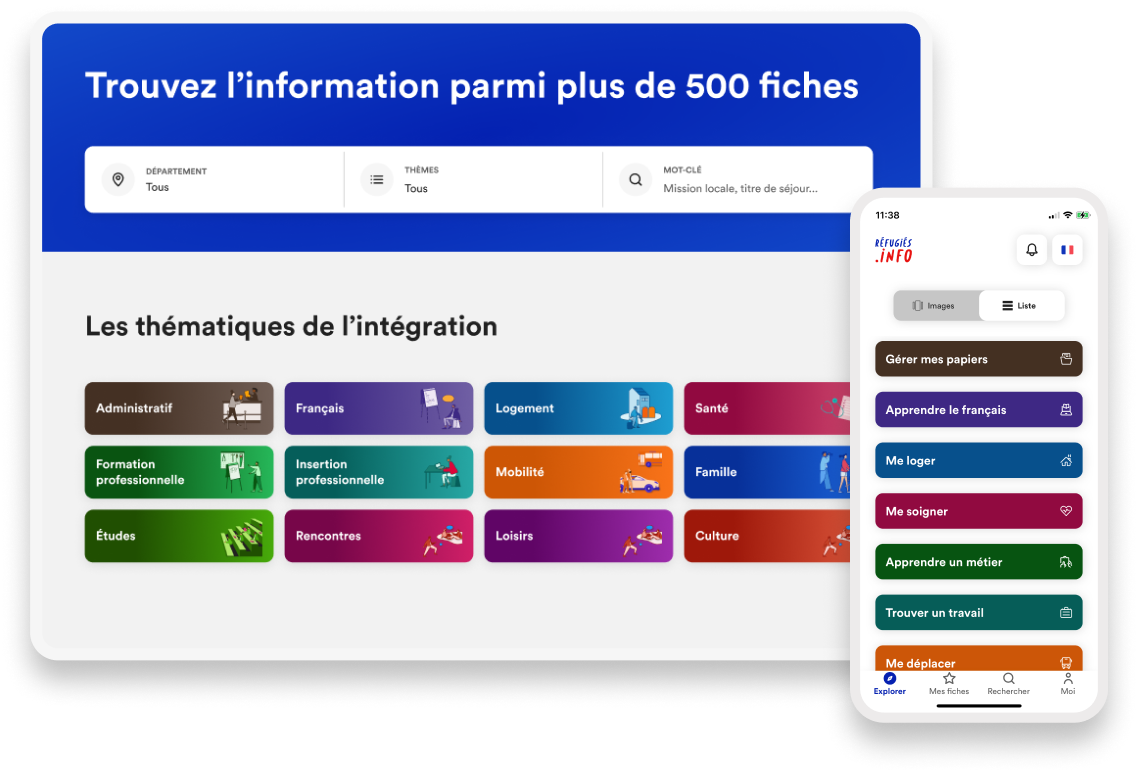
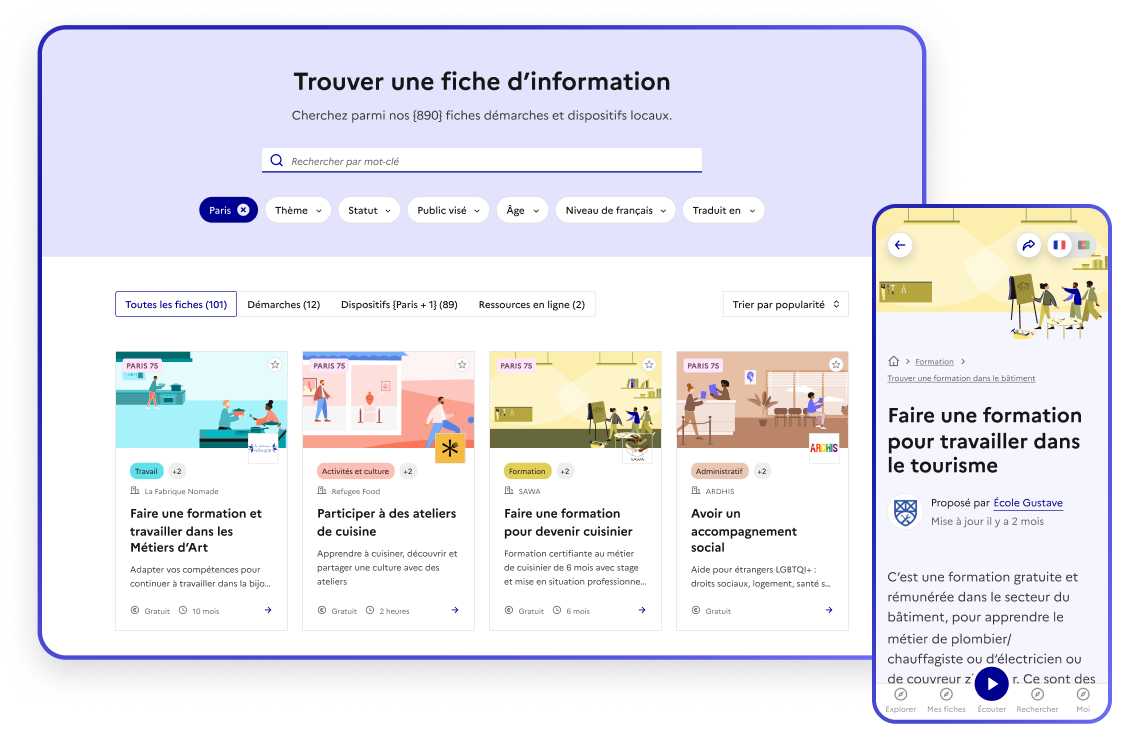
style(client): :lipstick: update section 1

diff --git a/apps/client/src/pages/publier.tsx b/apps/client/src/pages/publier.tsx
@@ -1,3 +1,4 @@
+import Button from "@codegouvfr/react-dsfr/Button";
 import { RoleName } from "@refugies-info/api-types";
 import { useTranslation } from "next-i18next";
 import { serverSideTranslations } from "next-i18next/serverSideTranslations";
@@ -7,7 +8,6 @@ import { Col, Container, Row } from "reactstrap";
 import HelpIcon3 from "~/assets/staticPages/publier/help-icon-crisp.svg";
 import HelpIcon2 from "~/assets/staticPages/publier/help-icon-tutoriel.svg";
 import HelpIcon1 from "~/assets/staticPages/publier/help-icon-visio.svg";
-import MockupsRIMobile from "~/assets/staticPages/publier/mockups-ri-mobile.png";
 import MockupsRI from "~/assets/staticPages/publier/mockups-ri.png";
 import RequiredIcon1 from "~/assets/staticPages/publier/required-icon-1.png";
 import RequiredIcon2 from "~/assets/staticPages/publier/required-icon-2.png";
@@ -25,7 +25,6 @@ import {
   Accordion,
   Card,
   CountUpFigure,
-  HeroArrow,
   InlineLink,
   Register,
   SecondaryNavbar,
@@ -91,26 +90,28 @@ const RecensezVotreAction = (props: Props) => {
       <SEO title={t("Publish.title")} />
 
       {/* HERO */}
-      <div ref={refHero} className={cls(styles.section, styles.bg_blue, "mb-4")}>
-        <Container className={styles.container}>
-          <Row className={styles.hero}>
-            <Col sm="12" lg="6" className={styles.hero_title}>
-              <h1 className={styles.white}>{t("Publish.title")}</h1>
-              <p className={styles.subtitle}>{t("Publish.subtitle")}</p>
-              <HeroArrow target="why" />
-            </Col>
-            {!isTablet && (
-              <Col sm="12" lg="6">
-                <Image src={MockupsRI} alt="" style={{ maxWidth: "100%", height: "auto" }} />
-              </Col>
-            )}
-          </Row>
-        </Container>
-        {isTablet && (
-          <div className={styles.hero_image}>
-            <Image src={MockupsRIMobile} alt="" style={{ maxWidth: "100%", height: "auto" }} />
+      <div ref={refHero} className={cls("py-10 md:py-20 mb-4 bg-blue-france")}>
+        <div className="fr-container">
+          <div className="flex flex-col md:flex-row md:items-center gap-10 lg:gap-20">
+            <div className="flex-1 text-center md:text-left">
+              <h1 className={cls(styles.title, "!text-white mb-6")}>{t("Publish.title")}</h1>
+              <p className={cls(styles.title_sub, "text-white !mb-0")}>{t("Publish.subtitle")}</p>
+              <Button
+                iconId="fr-icon-arrow-right-line"
+                iconPosition="right"
+                className="fr-button-reverse mt-10 !w-full justify-center md:!w-auto"
+                linkProps={{
+                  href: "#register",
+                }}
+              >
+                {t("Publish.navbarItem5")}
+              </Button>
+            </div>
+            <div className="flex-1">
+              <Image src={MockupsRI} alt="" style={{ maxWidth: "100%", height: "auto" }} />
+            </div>
           </div>
-        )}
+        </div>
       </div>
 
       <SecondaryNavbar

diff --git a/apps/client/src/scss/pages/agir.module.scss b/apps/client/src/scss/pages/agir.module.scss
@@ -128,40 +128,6 @@
   }
 }
 
-.colored {
-  /* stylelint-disable-next-line selector-class-pattern */
-  &:global(.fr-btn--secondary) {
-    color: var(--text-inverted-blue-france);
-    box-shadow: inset 0 0 0 1px var(--border-open-blue-france) !important;
-
-    &:hover {
-      background-color: rgb(255 255 255 / 20%) !important;
-    }
-
-    &:active {
-      background-color: rgb(255 255 255 / 40%) !important;
-    }
-  }
-
-  /* stylelint-disable-next-line selector-class-pattern, no-descending-specificity */
-  &:global(:not(.fr-btn--secondary)) {
-    background-color: var(--background-contrast-blue-france);
-    color: var(--text-action-high-blue-france);
-
-    &:hover {
-      background-color: var(--background-contrast-blue-france-hover) !important;
-    }
-
-    &:focus {
-      background-color: var(--background-contrast-blue-france) !important;
-    }
-
-    &:active {
-      background-color: var(--background-contrast-blue-france-active) !important;
-    }
-  }
-}
-
 .cards {
   /* stylelint-disable-next-line selector-class-pattern */
   :global(.fr-card__title a[href]) {
@@ -199,7 +165,7 @@
       height: u(10);
     }
   }
-  
+
   .content {
     padding: u(6);
   }

diff --git a/apps/client/src/scss/_dsfr-fix.scss b/apps/client/src/scss/_dsfr-fix.scss
@@ -18,7 +18,7 @@
     width: 2.5rem;
     height: 2.5rem;
     min-height: 2.5rem;
-    
+
     &::before {
       margin: 0;
     }
@@ -57,4 +57,37 @@
 [class^="ri-"],
 [class*=" ri-"] {
   font-family: inherit !important;
+}
+
+// white button
+.fr-button-reverse {
+  &:global(.fr-btn--secondary) {
+    color: var(--text-inverted-blue-france);
+    box-shadow: inset 0 0 0 1px var(--border-open-blue-france) !important;
+
+    &:hover {
+      background-color: rgb(255 255 255 / 20%) !important;
+    }
+
+    &:active {
+      background-color: rgb(255 255 255 / 40%) !important;
+    }
+  }
+
+  &:global(:not(.fr-btn--secondary)) {
+    background-color: var(--background-contrast-blue-france);
+    color: var(--text-action-high-blue-france);
+
+    &:hover {
+      background-color: var(--background-contrast-blue-france-hover) !important;
+    }
+
+    &:focus {
+      background-color: var(--background-contrast-blue-france) !important;
+    }
+
+    &:active {
+      background-color: var(--background-contrast-blue-france-active) !important;
+    }
+  }
 }

diff --git a/apps/client/src/pages/agir.tsx b/apps/client/src/pages/agir.tsx
@@ -75,7 +75,7 @@ const Agir = () => {
               <Button
                 iconId="fr-icon-arrow-right-line"
                 iconPosition="right"
-                className={cls(styles.colored, "mb-4")}
+                className="fr-button-reverse mb-4"
                 size="large"
                 linkProps={{
                   href: "#program",
@@ -88,7 +88,7 @@ const Agir = () => {
                 iconPosition="right"
                 size="large"
                 priority="secondary"
-                className={styles.colored}
+                className="fr-button-reverse"
                 linkProps={{
                   href: "#map",
                 }}

diff --git a/apps/client/src/scss/components/staticPages.module.scss b/apps/client/src/scss/components/staticPages.module.scss
@@ -97,6 +97,18 @@ $breakpoint: "lg-limit";
 }
 
 // Titles
+.title {
+  @include dsfr_text("alt-title");
+
+  @include isMobile {
+    @include dsfr_text("h1");
+  }
+}
+
+.title_sub {
+  @include dsfr_text("chapo");
+}
+
 .title2 {
   @include text("h3");
 

diff --git a/apps/client/src/scss/index.css b/apps/client/src/scss/index.css
@@ -13,6 +13,7 @@
   --color-light: #f2f2f2;
   --color-dark: #212121;
   --color-primary: #0421b1;
+  --color-blue-france: #000091;
 
   /* Fonts */
   --font-sans: "Marianne", "Arial", "sans-serif";

diff --git a/apps/client/src/scss/mixins/_text.scss b/apps/client/src/scss/mixins/_text.scss
@@ -107,6 +107,10 @@ $dsfr-texts: (
     40px,
     48px,
   ),
+  "alt-title": (
+    48px,
+    56px,
+  ),
 );
 
 @mixin dsfr-text($_key) {
